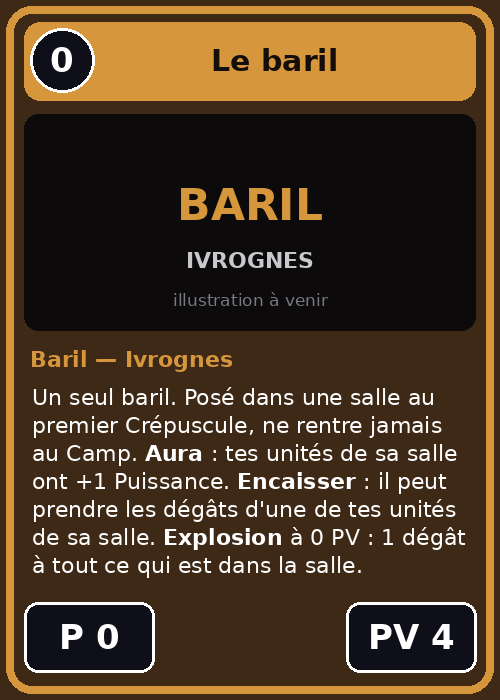
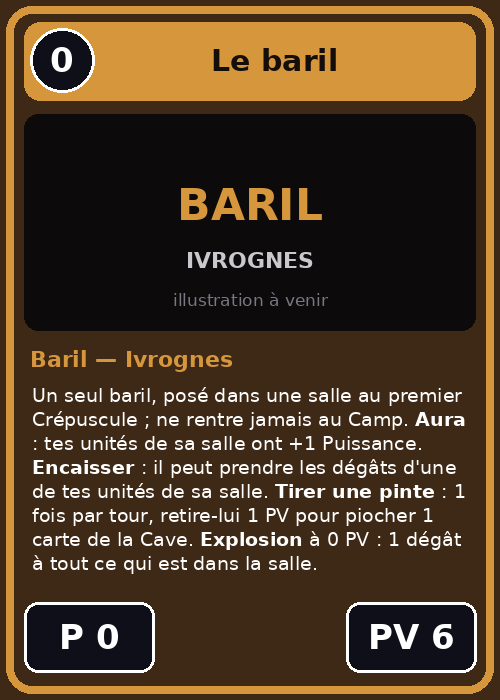
Ivrognes : la Cave (12 alcools), baril à 6 PV et Tirer une pinte
Claude-Session: https://claude.ai/code/session_01Ei1ETxKFF4cSM4RwXRQ4jQ

Changed region(s): [[0.06, 0.54, 0.93, 0.84], [0.87, 0.87, 0.9, 0.93]]

diff --git a/tools/generate.py b/tools/generate.py
@@ -31,7 +31,7 @@ PALETTE = {
 }
 TYPE_LABEL = {"Gardien": "Gardien", "Unite": "Unité", "Sort": "Sort", "Baril": "Baril",
               "Monstre": "Monstre", "Boss": "Boss", "Relique": "Relique", "Tresor": "Trésor",
-              "Energie": "Énergie"}
+              "Energie": "Énergie", "Alcool": "Alcool"}
 
 
 def C(id, name, type, cost, faction, text="", power=None, hp=None, legal=3, token=False):
@@ -48,10 +48,11 @@ CARDS = [
       "**Coup de torchon** : la première unité qui attaque Guss pendant un raid est Sonnée.",
       3, 7, legal=1),
     C("baril", "Le baril", "Baril", 0, IVR,
-      "Un seul baril. Posé dans une salle au premier Crépuscule, ne rentre jamais au Camp. "
+      "Un seul baril, posé dans une salle au premier Crépuscule ; ne rentre jamais au Camp. "
       "**Aura** : tes unités de sa salle ont +1 Puissance. **Encaisser** : il peut prendre les dégâts "
-      "d'une de tes unités de sa salle. **Explosion** à 0 PV : 1 dégât à tout ce qui est dans la salle.",
-      0, 4, legal=1),
+      "d'une de tes unités de sa salle. **Tirer une pinte** : 1 fois par tour, retire-lui 1 PV pour piocher "
+      "1 carte de la Cave. **Explosion** à 0 PV : 1 dégât à tout ce qui est dans la salle.",
+      0, 6, legal=1),
     # --- Ivrognes : unités ---
     C("habitue", "Habitué du bar", "Unite", 1, IVR, "**Près du baril** : +1 PV.", 1, 2),
     C("serveuse", "Serveuse", "Unite", 2, IVR, "**Arrivée** : une de tes unités gagne +1/+1.", 1, 3),
@@ -80,6 +81,18 @@ CARDS = [
       "Toutes tes unités en jeu sont soignées et gagnent +1/+1 jusqu'à la fin du tour. "
       "Tes blessées du Camp reviennent en Expédition. +1 Puissance de plus si ton baril est intact. "
       "**Signature** : 1 exemplaire max.", legal=1),
+    # --- Ivrognes : la Cave (Réserve de faction) ---
+    C("biere", "Bière blonde", "Alcool", 0, IVR, "**Alcool** (sur ton unité dans la salle du baril, même en combat). +1 Puissance.", legal=3),
+    C("cidre", "Cidre", "Alcool", 0, IVR, "**Alcool** (sur ton unité dans la salle du baril, même en combat). +1 PV.", legal=2),
+    C("hydromel", "Hydromel", "Alcool", 1, IVR, "**Alcool** (sur ton unité dans la salle du baril, même en combat). +2 PV et soigne 2 PV en s'attachant.", legal=2),
+    C("rhum", "Rhum", "Alcool", 1, IVR,
+      "**Alcool** (sur ton unité dans la salle du baril, même en combat). +2 Puissance. **Gueule de bois** : à la Nuit, l'unité est Sonnée pour le tour suivant.", legal=1),
+    C("whisky", "Whisky tourbé", "Alcool", 1, IVR, "**Alcool** (sur ton unité dans la salle du baril, même en combat). L'unité ne peut pas être Sonnée.", legal=1),
+    C("vin-chaud", "Vin chaud", "Alcool", 1, IVR, "**Alcool** (sur ton unité dans la salle du baril, même en combat). Soigne complètement l'unité en s'attachant.", legal=1),
+    C("absinthe", "Absinthe", "Alcool", 1, IVR,
+      "**Alcool** (sur ton unité dans la salle du baril, même en combat). +3 Puissance. Au début de ton tour suivant, l'unité perd 2 PV.", legal=1),
+    C("liqueur-feu", "Liqueur de feu", "Alcool", 1, IVR,
+      "**Alcool** (sur ton unité dans la salle du baril, même en combat). Quand l'unité meurt : 2 dégâts à chaque ennemi de sa salle.", legal=1),
     # --- Cartes de test (en attendant les Druides) ---
     C("gardien-druide", "Druide (nom temporaire)", "Gardien", 0, "Test",
       "Passif : à chaque monstre tué, récolte un ingrédient.", 2, 8, legal=1),
